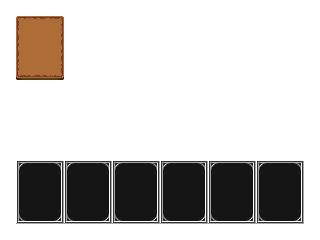
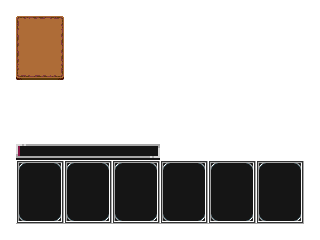
Player health displayed

Changed region(s): [[0.0312, 0.5833, 0.5, 0.6708]]

diff --git a/src/rogue-card/scene/Play.cpp b/src/rogue-card/scene/Play.cpp
@@ -71,6 +71,7 @@ void PlayScene::render() {
 	_renderBackground();
 	_renderNotification();
 	_renderCards();
+	_renderHealth();
 	_renderCursor();
 }
 
@@ -87,6 +88,13 @@ void PlayScene::_renderNotification() const {
 			80, 16
 		);
 	}
+}
+
+void PlayScene::_renderHealth() const {
+	int healthWidth = m_player.getHealth() * 138 / m_player.getMaxHealth();
+	TextureManager::Instance()->draw(
+		"health-color", 20, 146, healthWidth, 10, m_renderer->getRenderer()
+	);
 }
 
 void PlayScene::_renderCursor() {

diff --git a/src/rogue-card/scene/Play.hpp b/src/rogue-card/scene/Play.hpp
@@ -27,6 +27,7 @@ class PlayScene : public State {
 
 	void _renderBackground() const;
 	void _renderNotification() const;
+	void _renderHealth() const;
 	void _renderCursor();
 	void _renderCards();
 
